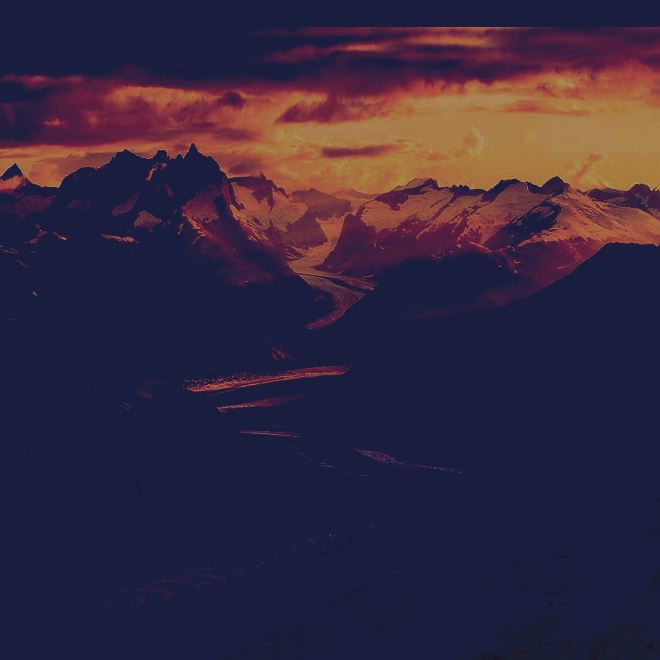
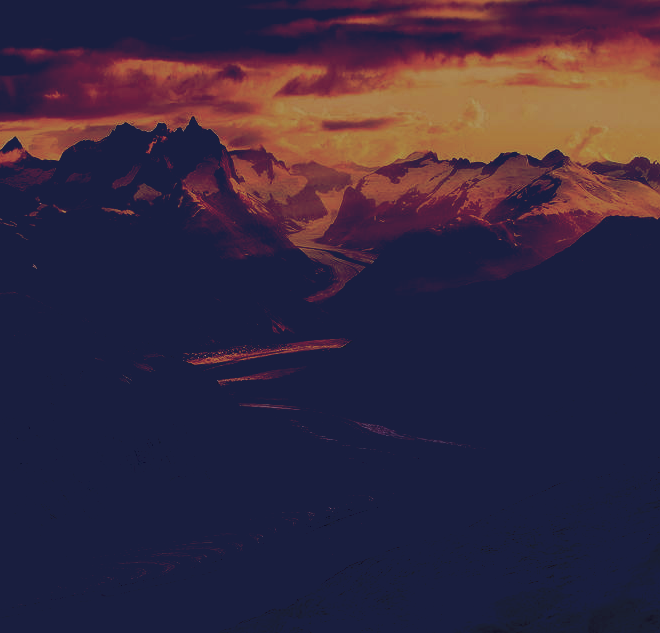
edit: gulpfile + header + mission main + html

diff --git a/app/index.html b/app/index.html
@@ -12,26 +12,38 @@
 
 <body>
     <header>
-        <div id="logo">
-            <img src="img/header/logo.png" alt="text logo"> </div>
-        <nav id="nav">
-            <input type="checkbox" id="menu-change" hidden>
-            <label for="menu-change" class="burger">
-                <span class="line"></span>
-                <span class="line"></span>
-            </label>
-            <ul>
-                <li>Item 1</li>
-                <li>Item 2</li>
-                <li>Item 3</li>
-                <li>Item 4</li>
-                <li>Item 5</li>
-            </ul>
-        </nav>
-        <p id="header-moto">we build innovative companies</p>
+        <div class="head-mask">
+            <div id="logo">
+                <img src="img/header/logo.png" alt="text logo"> </div>
+            <nav id="nav">
+                <input type="checkbox" id="menu-change" hidden>
+                <label for="menu-change" class="burger">
+                    <span class="line"></span>
+                    <span class="line"></span>
+                </label>
+                <ul>
+                    <li>Item 1</li>
+                    <li>Item 2</li>
+                    <li>Item 3</li>
+                    <li>Item 4</li>
+                    <li>Item 5</li>
+                </ul>
+            </nav>
+            <p id="header-moto">we build innovative companies</p>
+        </div>
     </header>
     <main>
         <section id="mission">
+            <div class="number">
+                <div class="number-num"></div>
+                <div class="number-lable"></div>
+            </div>
+            <div class="mountains"></div>
+            <div class="mission-text">Is allowance instantly strangers applauded discourse so. Separate entrance welcomed sensible laughing why one
+                moderate shy. We seeing piqued garden he. As in merry at forth least ye stood.
+                <br> And cold sons yet with. Delivered middleton therefore me at. Attachment companions man way excellence how
+                her pianoforte.
+            </div>
 
         </section>
         <section id="projects">

diff --git a/app/css/style.css b/app/css/style.css
@@ -130,10 +130,18 @@ body {
 
 header {
   height: 100vh;
-  background: url("../img/Header/mountains header.png") no-repeat;
+  background: url("../img/Header/Layer.png") no-repeat;
   background-size: cover;
   background-position: top;
   position: relative; }
+
+.head-mask {
+  background-color: rgba(25, 30, 63, 0.749);
+  position: absolute;
+  left: 0;
+  top: 0;
+  bottom: 0;
+  right: 0; }
 
 #logo {
   display: inline-block;
@@ -223,25 +231,12 @@ header {
   -webkit-transition: opacity 0.1s;
   transition: opacity 0.1s; }
 
-.mask {
-  background-color: #191e3f;
+.mountains {
+  background: url("../img/Mission/mountains.png") no-repeat;
+  background-position: top left;
   -webkit-box-shadow: 0px 178px 152px 0px rgba(0, 0, 0, 0.451);
   box-shadow: 0px 178px 152px 0px rgba(0, 0, 0, 0.451);
-  position: absolute;
-  left: 540px;
-  top: 1185px;
   width: 660px;
-  height: 660px;
-  z-index: 13; }
-
-.mountains {
-  background-image: url("mountains.png");
-  opacity: 0.631;
-  position: absolute;
-  left: 374px;
-  top: 1212px;
-  width: 850px;
-  height: 634px;
-  z-index: 14; }
+  height: 630px; }
 
 /*# sourceMappingURL=style.css.map */

diff --git a/app/scss/Mission/_main.scss b/app/scss/Mission/_main.scss
@@ -1,23 +1,9 @@
-.mask {
-    background-color: #191e3f;
-    box-shadow: 0px 178px 152px 0px rgba(0, 0, 0, 0.451);
-    position: absolute;
-    left: 540px;
-    top: 1185px;
-    width: 660px;
-    height: 660px;
-    z-index: 13;
-}
-
 .mountains {
-    background-image: url("mountains.png");
-    opacity: 0.631;
-    position: absolute;
-    left: 374px;
-    top: 1212px;
-    width: 850px;
-    height: 634px;
-    z-index: 14;
+    background: url("../img/Mission/mountains.png") no-repeat;
+    background-position: top left;
+    box-shadow: 0px 178px 152px 0px rgba(0, 0, 0, 0.451);
+    width: 660px;
+    height: 630px;
 }
 
 //   .mission {

diff --git a/gulpfile.js b/gulpfile.js
@@ -60,8 +60,7 @@ gulp.task('liveserver', () =>
 );
 gulp.task('watch', function () {
     gulp.watch('app/scss/**/*.scss', ['scss']);
-    gulp.watch('app/scss/**/*.scss', browserSync.reload);
-    gulp.watch('app/*.html', browserSync.reload)
+    gulp.watch('app/*.html').on('change', browserSync.reload);
 });
 
-gulp.task('default', ['liveserver', 'scss', 'watch']);
+gulp.task('default', ['scss', 'liveserver', 'watch']);

diff --git a/app/scss/Header/_header.scss b/app/scss/Header/_header.scss
@@ -1,9 +1,18 @@
 header {
 	height: 100vh;
-	background: url("../img/Header/mountains header.png") no-repeat;
+	background: url("../img/Header/Layer.png") no-repeat;
 	background-size: cover; // background-attachment: fixed;
 	background-position: top;
 	position: relative;
+}
+
+.head-mask {
+	background-color: rgba(25, 30, 63, 0.749);
+	position: absolute;
+	left: 0;
+	top: 0;
+	bottom: 0;
+	right: 0
 }
 
 #logo {

diff --git a/app/scss/Base/_base.scss b/app/scss/Base/_base.scss
@@ -5,7 +5,7 @@
  $font-r: ('Raleway', sans-serif);
  $font-y: ('Yantramanav', sans-serif);
  html {
-     background-color: #191e3f;
+     background-color: $blue;
  }
 
  body {
